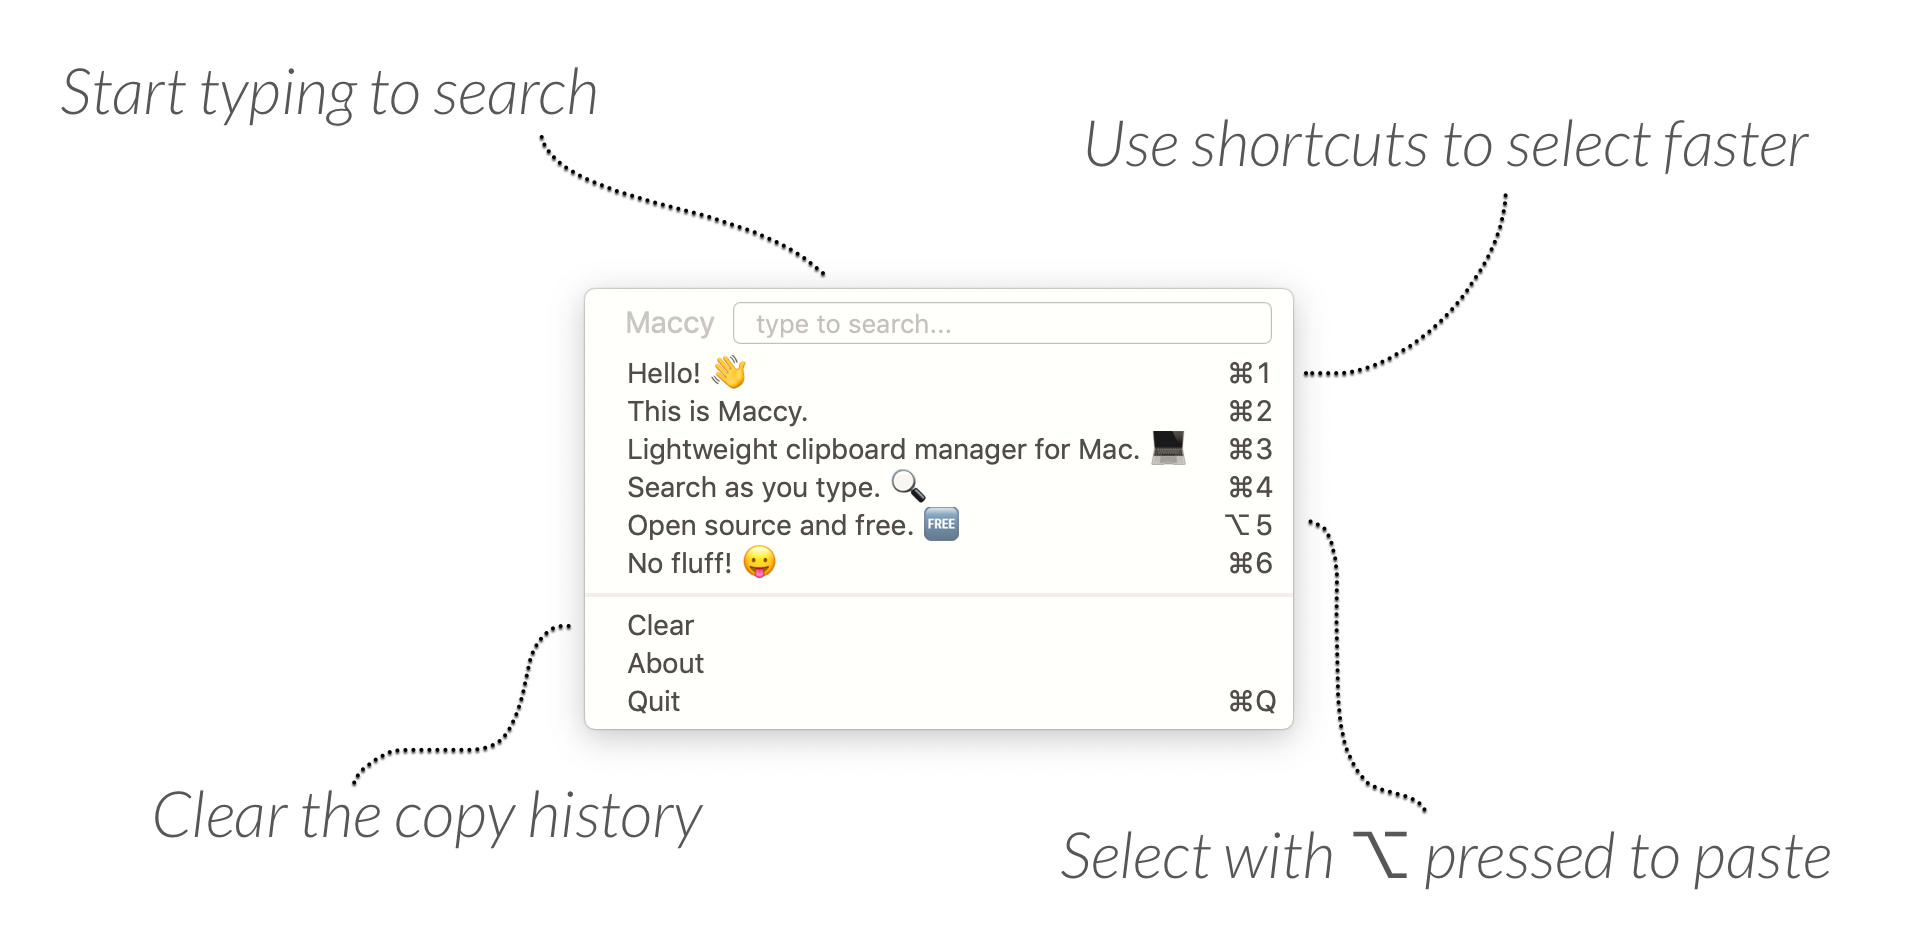
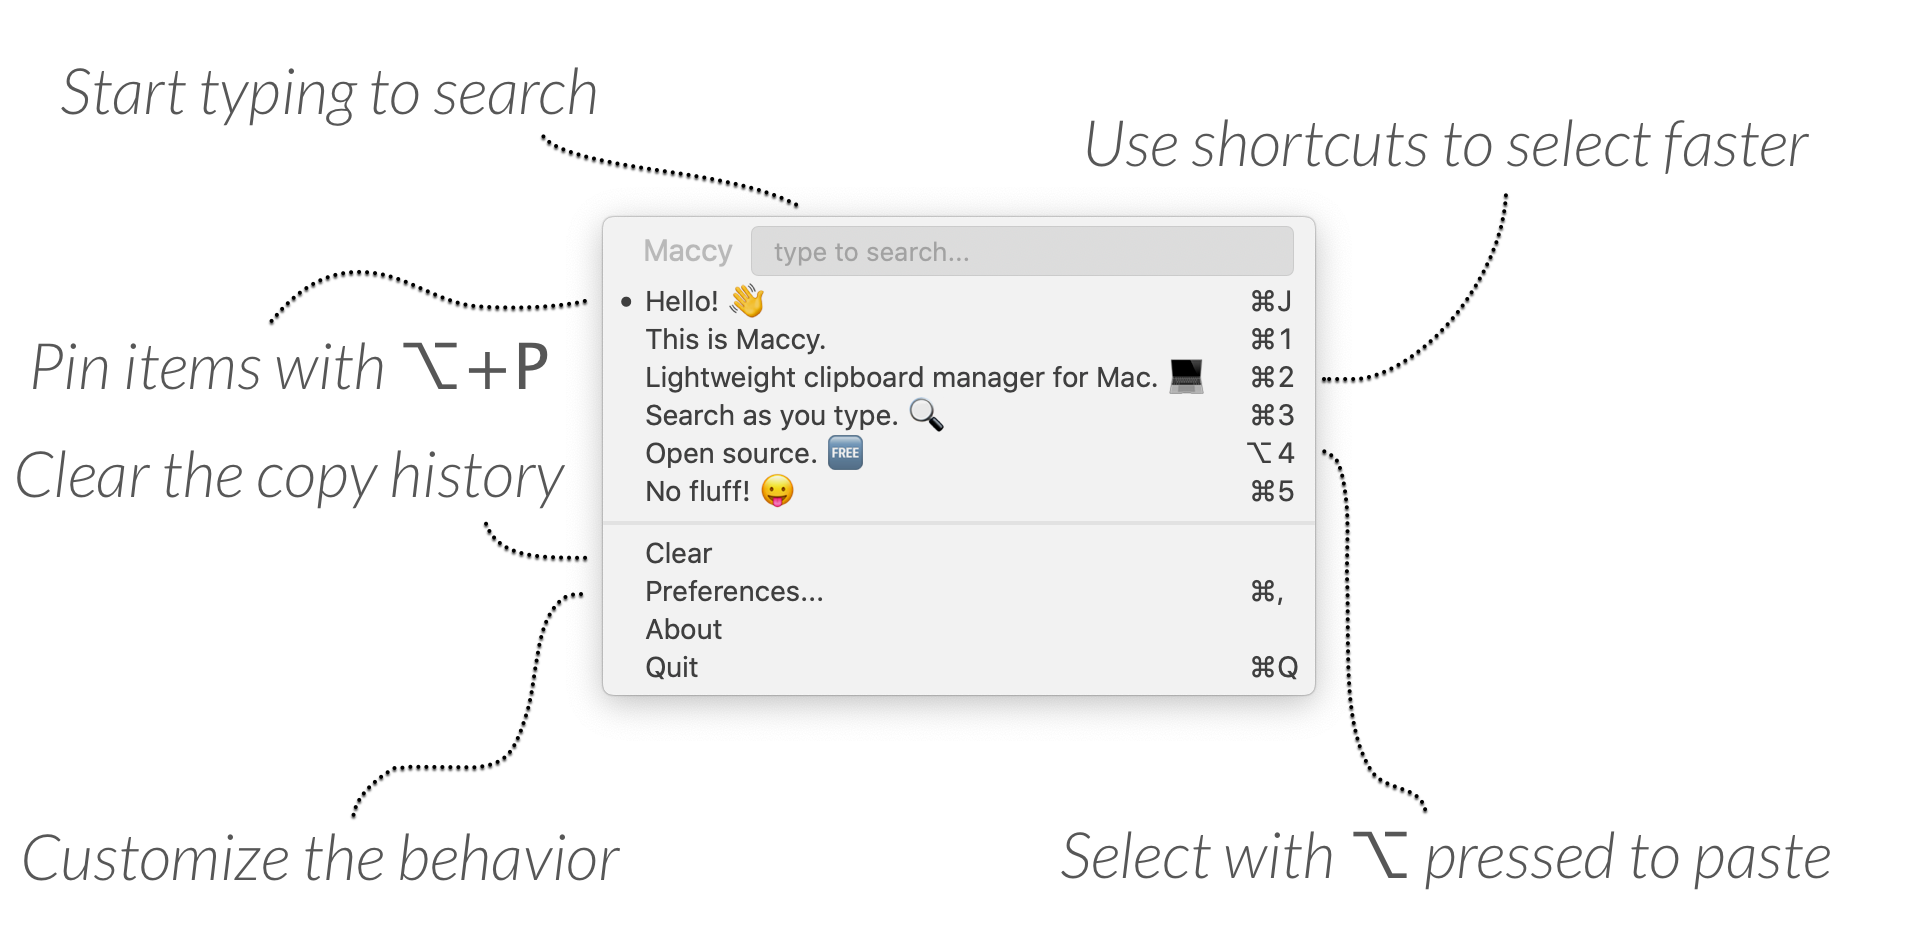
Update images for 0.10.0 look

diff --git a/index.html b/index.html
@@ -189,7 +189,7 @@
     <div class="footer-01">
       <div class="container">
         <div class="footer-01__wrapper">
-          <div class="footer-01__text">&copy; 2019&nbsp;<a class="footer-01__link" href="mailto:p0deje@gmail.com">Alex Rodionov</a>.
+          <div class="footer-01__text">&copy; 2020&nbsp;<a class="footer-01__link" href="mailto:p0deje@gmail.com">Alex Rodionov</a>.
           </div>
         </div>
       </div>

diff --git a/css/main.css b/css/main.css
@@ -2570,6 +2570,9 @@ button.button {
   @media (max-width: 600px) {
     .header-07__img, .header-23__img, .header-24__img, .header-25__img, .header-58__img {
       max-height: 300px; } }
+  @media (min-width: 1100px) {
+    .header-25__img {
+      max-width: 80%; } }
 
 .header-08, .header-59 {
   position: relative;
